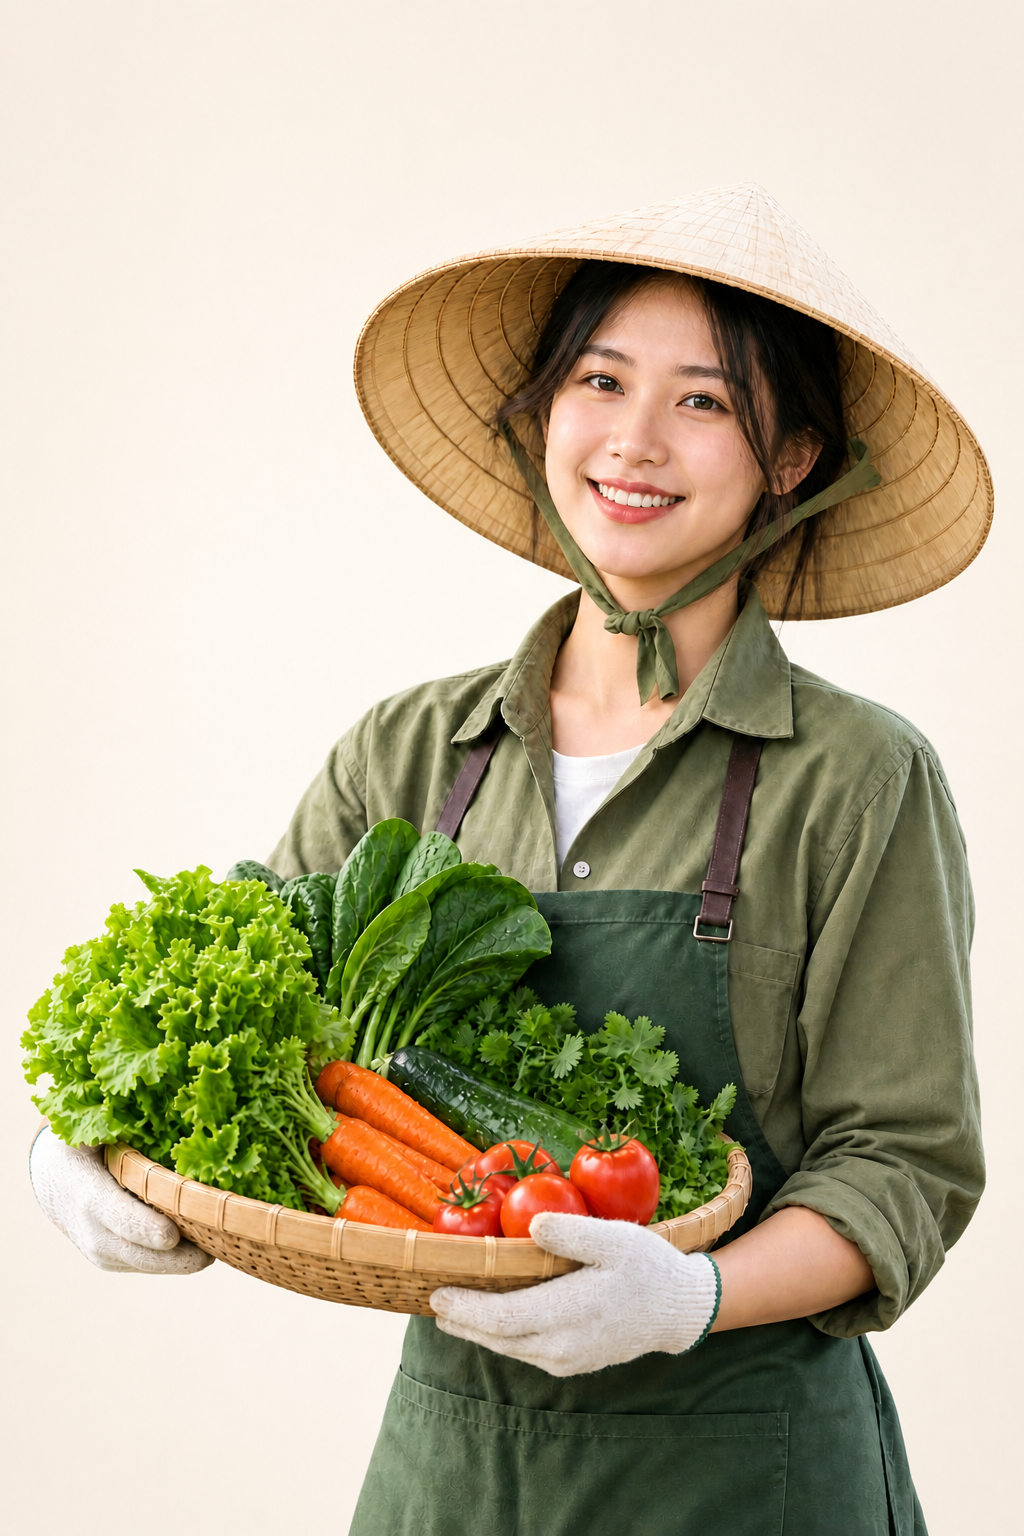
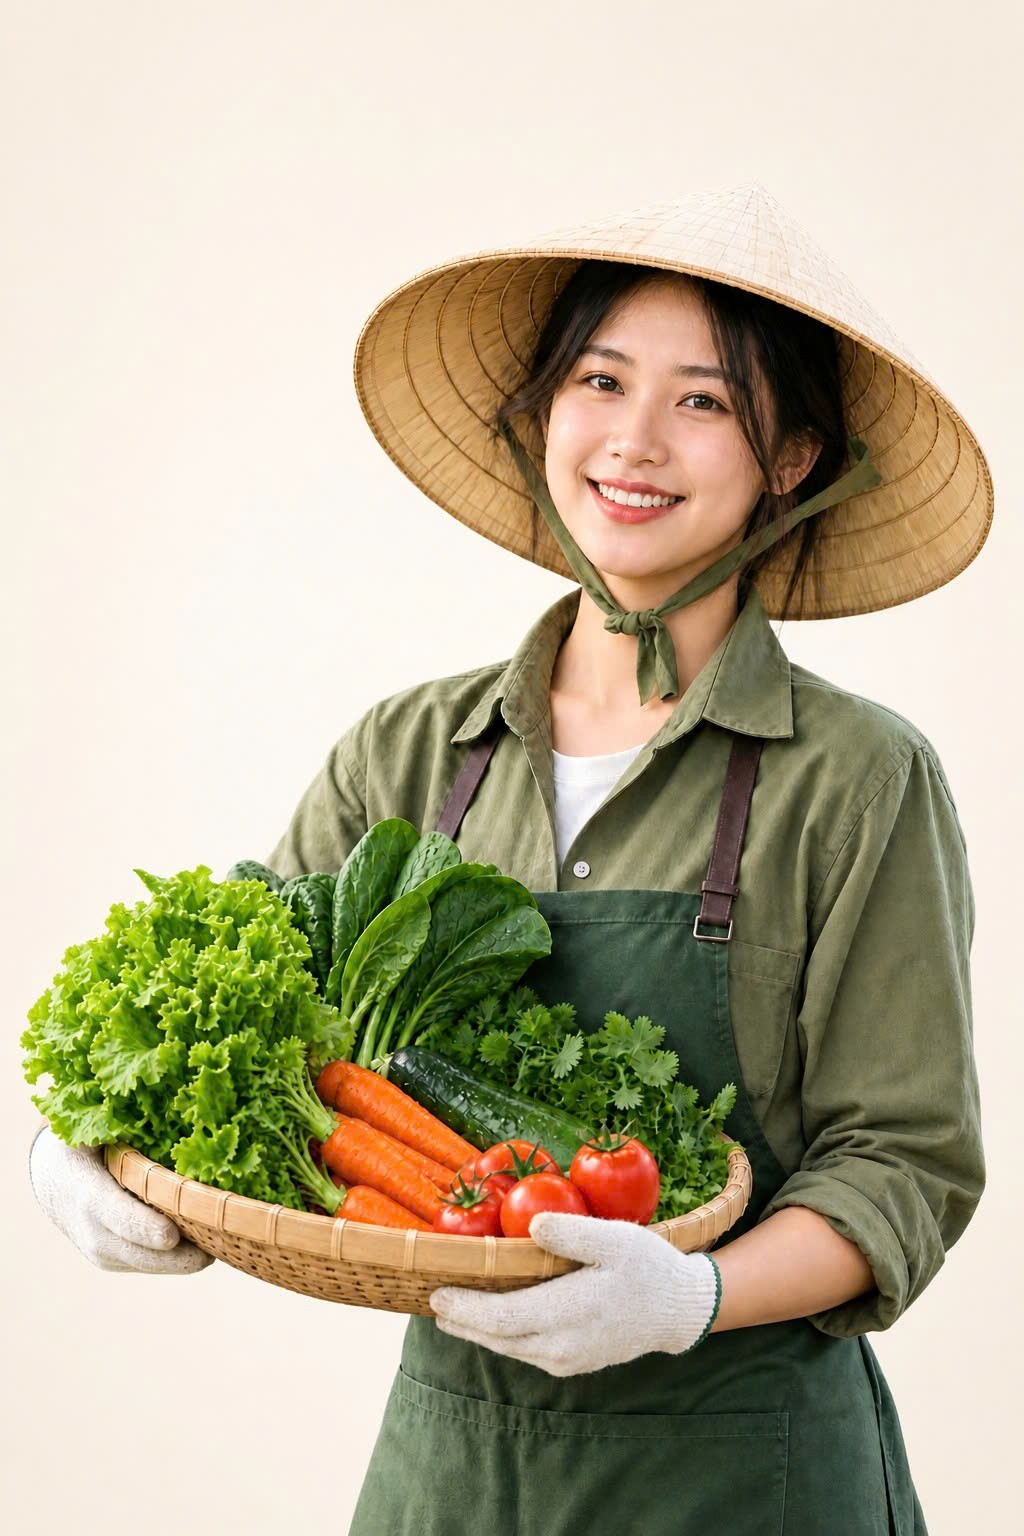
refresh Agripassport about imagery

diff --git a/frontend/src/app/ve-chung-toi/agripassport-about-page.tsx b/frontend/src/app/ve-chung-toi/agripassport-about-page.tsx
@@ -40,6 +40,8 @@ const ecosystemMembers = [
   { label: 'Nhà phân phối', icon: Truck }
 ] as const;
 
+const agripassportAppShowcaseUrl = '/hero/agripassport-app-showcase.png';
+
 export function AgripassportAboutPage({ siteProfile }: AgripassportAboutPageProps) {
   return (
     <PublicShell>
@@ -69,14 +71,25 @@ export function AgripassportAboutPage({ siteProfile }: AgripassportAboutPageProp
               </div>
             </div>
 
-            <figure className="h-full overflow-hidden rounded-[1.75rem] border border-white/80 bg-[var(--brand-primary-subtle)] shadow-[0_28px_70px_rgba(25,73,39,0.16)]">
-              <PublicImage
-                src={siteProfile.pageContent.aboutImageUrl}
-                alt={siteProfile.pageContent.aboutImageAlt || 'Người nông dân sử dụng công nghệ trong sản xuất'}
-                wrapperClassName="h-full aspect-[4/3] lg:aspect-auto"
-                className="h-full w-full object-cover"
-                priority
-              />
+            <figure className="grid h-full grid-cols-2 gap-3 overflow-hidden rounded-[1.75rem] border border-white/80 bg-[var(--brand-primary-subtle)] p-3 shadow-[0_28px_70px_rgba(25,73,39,0.16)] sm:gap-4 sm:p-4">
+              <div className="min-h-[18rem] overflow-hidden rounded-[1.35rem] bg-[#f8eee3] sm:min-h-[24rem] lg:min-h-[31rem]">
+                <PublicImage
+                  src={siteProfile.pageContent.aboutImageUrl}
+                  alt={siteProfile.pageContent.aboutImageAlt || 'Người nông dân sử dụng công nghệ trong sản xuất'}
+                  wrapperClassName="h-full w-full"
+                  className="h-full w-full object-cover"
+                  priority
+                />
+              </div>
+              <div className="flex min-h-[18rem] items-center overflow-hidden rounded-[1.35rem] bg-[#dff4f5] sm:min-h-[24rem] lg:min-h-[31rem]">
+                <PublicImage
+                  src={agripassportAppShowcaseUrl}
+                  alt="Ứng dụng Agripassport quản lý sản xuất và truy xuất QR"
+                  wrapperClassName="h-full w-full"
+                  className="h-full w-full object-contain"
+                  priority
+                />
+              </div>
             </figure>
           </div>
         </section>
